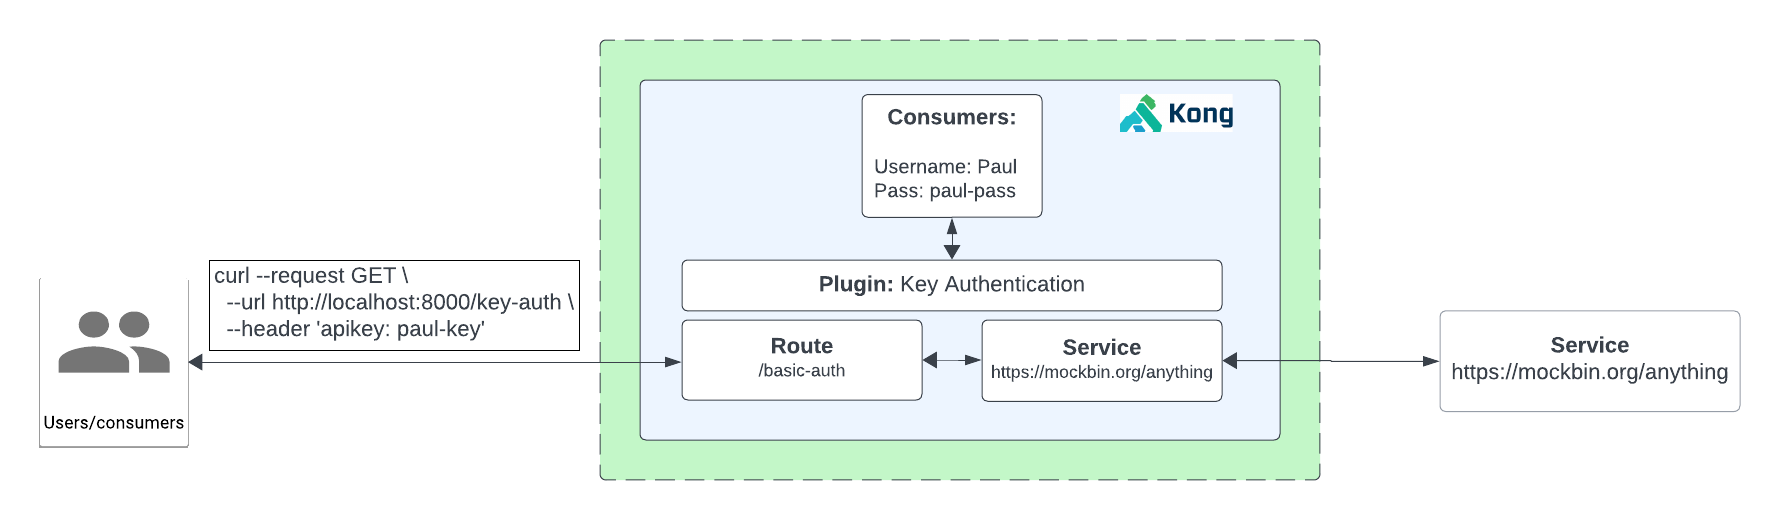
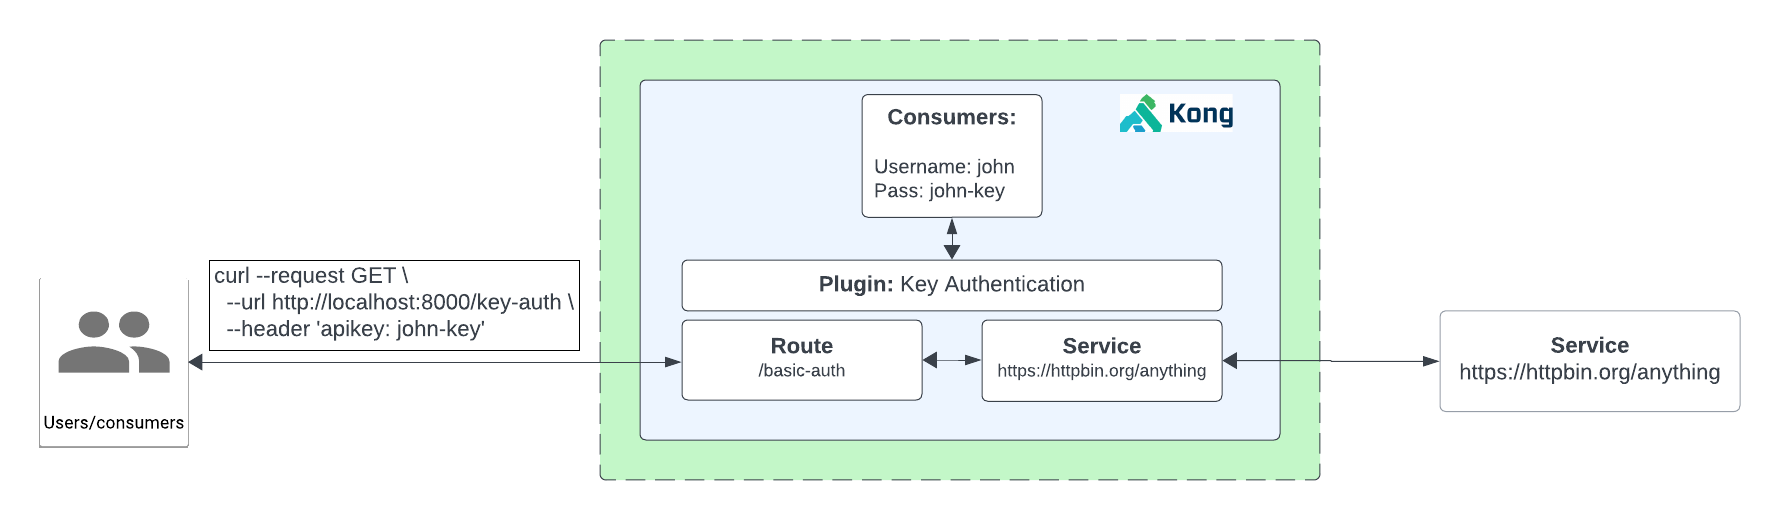
Adding images for plugins

diff --git a/plugins/traffic-control/acl/README.md b/plugins/traffic-control/acl/README.md
@@ -11,6 +11,20 @@
 
 **Access Control Lists (ACL’s):** Access Control Lists (ACLs) in an API gateway allow businesses to specify which clients or applications are allowed or denied access to specific API endpoints. ACLs are a set of rules that define who can access what resources.
 
+**How it works with Konnect**
+
+1. Create a Service and Route
+2. Enable key authentication on the Service
+3. Create two consumers “Engineer” and “Partner”
+4. Provision both consumers a key “Engineer-Key” and “Partner-Key”
+5. Test to see if we can proxy requests with a key
+6. Add consumer “Engineer” to the “Internal-Group” and “Partner” to the “External-Group”
+7. Enable Kong’s ACL Plugin to only allow users in the “Internal-Group” to get access to the API
+8. Test to see that only internal users can now get access
+
+
+![ACL](../../images/ACL.png)
+
 ## Watch the video on how to use the ACL plugin
 
 <!--

diff --git a/plugins/authentication/key-authentication/README.md b/plugins/authentication/key-authentication/README.md
@@ -11,6 +11,18 @@
 
 **Key authentication:** also known as API key authentication or token-based authentication, involves using a unique API key or token to authenticate and authorize access to an API. When a client sends a request to an API, they include their API key in the request (typically via a header). When it comes to Key Authentication and using it at the Gateway, the API gateway then validates the key and grants access if it's valid.
 
+**How to do it with Konnect**
+
+1. Create a Service and Route
+2. Test to see if we can proxy request with a key or no key
+3. Enable Kong’s Key Authentication Plugin
+4. Try to access the API now. We will not be able to access the API.
+5. Create a consumer in Kong
+6. Provision that Consumer a Key
+7. Test the API with the newly create key credential
+
+![Key Auth](../../images/Key-Auth.png)
+
 ## Watch the video on how to use the Key Authentication plugin
 
 <!--

diff --git a/plugins/traffic-control/canary/README.md b/plugins/traffic-control/canary/README.md
@@ -11,6 +11,22 @@
 
 **Canary Releases:**  Canary requests is a deployment strategy which involve routing a small percentage of incoming traffic to a new or updated version of an API to test its functionality and performance before rolling it out to all users.
 
+**How it works with Konnect**
+
+1. Create a Service and Route
+2. Test to see if we can proxy request
+3. Enable Kong’s Canary Plugin
+4. For the plugin configuration, we will specify a new endpoint to connect to for a certain percentage of the traffic. In this case we will use https://httpbin.org/anything
+   - Upstream host: httpbin.org
+   - Upstream port: 443
+   - Upstream URI: /anything
+   - Percentage: 50
+   - Steps: 100
+   - Hash: none
+5. Test to see if 50% of the traffic goes to https://httpbin.org/anything & https://httpbin.org/ip
+
+![Canary](../../images/Canary.png)
+
 ## Watch the video on how to use the Canary plugin
 
 <!--

diff --git a/plugins/README.md b/plugins/README.md
@@ -26,14 +26,13 @@ Plugins can be applied globally or scoped to specific services, consumers or rou
 
 ## Using Deck
 
+IMPORTANT: Set your $KONNECT_TOKEN in order to interact with the Konnect Control plane (Example: `export KONNECT_TOKEN=kpat_qWQeKAqoSVbOTAemeYHfHkso2RQ4vefYl.....`)
+
 Each plugin directory has a Deck file that you can use to import a sample configuration to the control plane to test. The instructions on how to import are in the README files for each section.
 
 ## Using the Admin API with Insomnia
 
-You can leverage the insomnia collection [here](https://github.com/irishtek-solutions/kong-konnect-inso)
-<!--
-[![Using Insomnia](./images/activate.png)](https://youtu.be/ "First [PLUGIN NAME]")
--->
+You can leverage the insomnia collection for this repository [here](https://github.com/irishtek-solutions/kong-konnect-inso).
 
 ### Authentication plugins
 

diff --git a/plugins/security/rate-limiting/README.md b/plugins/security/rate-limiting/README.md
@@ -11,6 +11,16 @@
 
 **Rate Limiting:** allows businesses to control the number of requests a client or application can make to an API within a specified time frame (e.g., requests per second or requests per minute). When a client exceeds the defined rate limit, the API gateway can respond with an response code as well as additional information. Rate Limiting ensures fair usage of the API's resources.
 
+**How it works with Konnect**
+
+1. Create a Service and Route
+2. Test to see if we can proxy request
+3. Inspect headers
+4. Enable Kong’s Rate Limiting Plugin
+5. Test my sending multiple requests
+
+![Rate Limiting](../../images/Rate-Limiting.png)
+
 ## Watch the video on how to use the Rate Limiting plugin
 
 <!--

diff --git a/plugins/transformation/req-transformer/README.md b/plugins/transformation/req-transformer/README.md
@@ -11,6 +11,18 @@
 
 **Request Transformer:** Transforming a request involves modifying the content or structure of incoming requests before they are forwarded to backend services. This can include request payload conversion, header modification, or URL rewriting.
 
+**How it works with Konnect**
+
+1. Create a Service and Route
+2. Test to see if we can proxy request
+3. Enable Kong’s Request Transformer Plugin
+   - Add Header: kong-header:jungle-header
+   - Add Querystring: kong-querystring:jungle-querystring
+4. Test request and inspect header, body and query string elements
+
+
+![Req Transformer](../../images/Request-Transformer.png)
+
 ## Watch the video on how to use the Request Transformer plugin
 
 <!--

diff --git a/plugins/security/rate-limiting-adv/README.md b/plugins/security/rate-limiting-adv/README.md
@@ -11,6 +11,16 @@
 
 **Rate Limiting Advanced** in Kong goes beyond basic rate limiting by allowing for more complex policies and rate limiting based on various factors such as HTTP headers, query parameters, or user roles.It enables conditional rate limiting, which means different clients or requests can have different rate limits based on their characteristics.
 
+**How it works with Konnect**
+
+1. Create a Service and Route
+2. Test to see if we can proxy request
+3. Inspect headers
+4. Enable Kong’s Rate Limiting Advanced Plugin
+5. Test my sending multiple requests
+
+![Rate Limiting Adv](../../images/Rate-Limiting-Adv.png)
+
 ## Watch the video on how to use the Rate Limiting Advanced plugin
 
 <!--

diff --git a/plugins/transformation/correlation-id/README.md b/plugins/transformation/correlation-id/README.md
@@ -11,6 +11,17 @@
 
 **Correlation ID:** Adding a correlation ID to API requests involves including a unique identifier with each incoming request. This ID is then passed through the each networking component and downstream services to trace and correlate requests and responses. An example of a UUID would be this: 550e8400-e29b-41d4-a716-446655440000
 
+**How it works with Konnect**
+
+1. Create a Service and Route
+2. Test to see if we can proxy request
+3. Inspect headers
+4. Enable Kong’s Correlation ID Plugin
+5. Test to see if Correlation ID was added to the request/response
+
+
+![Correlation ID](../../images/Correlation-ID.png)
+
 ## Watch the video on how to use the Correlation ID plugin
 
 <!--

diff --git a/plugins/analytics-monitoring/prometheus/README.md b/plugins/analytics-monitoring/prometheus/README.md
@@ -9,6 +9,20 @@
 
 ## What is the Prometheus?
 
+Prometheus metrics or Prometheus metrics scraping involves collecting and exposing various performance and operational metrics about the API in a specific format. The advantage of it being in a specific format would be that other tools can support ingestion of this format.
+
+**How it works with Konnect**
+
+1. Create a Service and Route
+2. Test to see if we can proxy request
+3. Enable Kong’s Prometheus Plugin
+4. Setup Grafana to scrape metrics
+5. Send some requests through on the proxy endpoint
+6. Check Grafana to see metrics
+
+
+![Prometheus Diagram](../../images/Prometheus.png)
+
 ## Watch the video on how to use the Prometheus plugin
 
 <!--

diff --git a/plugins/authentication/basic-authentication/README.md b/plugins/authentication/basic-authentication/README.md
@@ -11,6 +11,18 @@
 
 **Basic Authentication:** Basic authentication is a method where clients send a username and password in the request (usually in a header(s)) to authenticate with an API. The credentials are typically Base64-encoded.
 
+**How to do it with Konnect**
+
+1. Create a Service and Route
+2. Test to see if we can proxy request with a username and password
+3. Enable Kong’s Basic Authentication Plugin
+4. Try to access the API now
+5. Create a consumer in Kong
+6. Provision that Consumer an authentication credentials
+7. Test the API with the newly create credential
+
+![Basic Auth](../../images/Basic-Auth.png)
+
 ## Watch the video on how to use the Basic Authentication plugin
 
 <!--

diff --git a/plugins/logging/file-log/README.md b/plugins/logging/file-log/README.md
@@ -11,6 +11,17 @@
 
 **File Logging:**  Logging requests and responses to a file involves capturing data related to incoming requests and outgoing responses and writing it to a log file on the server or a designated storage location.
 
+**How it works with Konnect**
+
+1. Create a Service and Route
+2. Test to see if we can proxy request with a key or no key
+3. Enable Kong’s File Log Plugin
+   - Path: /tmp/logs.txt
+4. Send requests to the proxy endpoint
+5. You will now see logs present
+
+![File log](../../images/File-Log.png)
+
 ## Watch the video on how to use the File Logging plugin
 
 <!--

diff --git a/plugins/logging/http-log/README.md b/plugins/logging/http-log/README.md
@@ -9,6 +9,20 @@
 
 ## What is the HTTP Logging?
 
+Logging API requests and responses to an external HTTP endpoint involves sending data related to API interactions to an external server or service via HTTP requests.
+
+**How it works with Konnect**
+
+1. Create a Service and Route
+2. Test to see if we can proxy request with a key or no key
+3. Enable Kong’s HTTP Plugin
+   -  HTTP endpoint
+   -  Header
+4. Proxy to endpoint
+5. Check http logging platform (New Relic) to see logs
+
+![Http log](../../images/HTTP-Log.png)
+
 ## Watch the video on how to use the HTTP Logging plugin
 
 <!--
